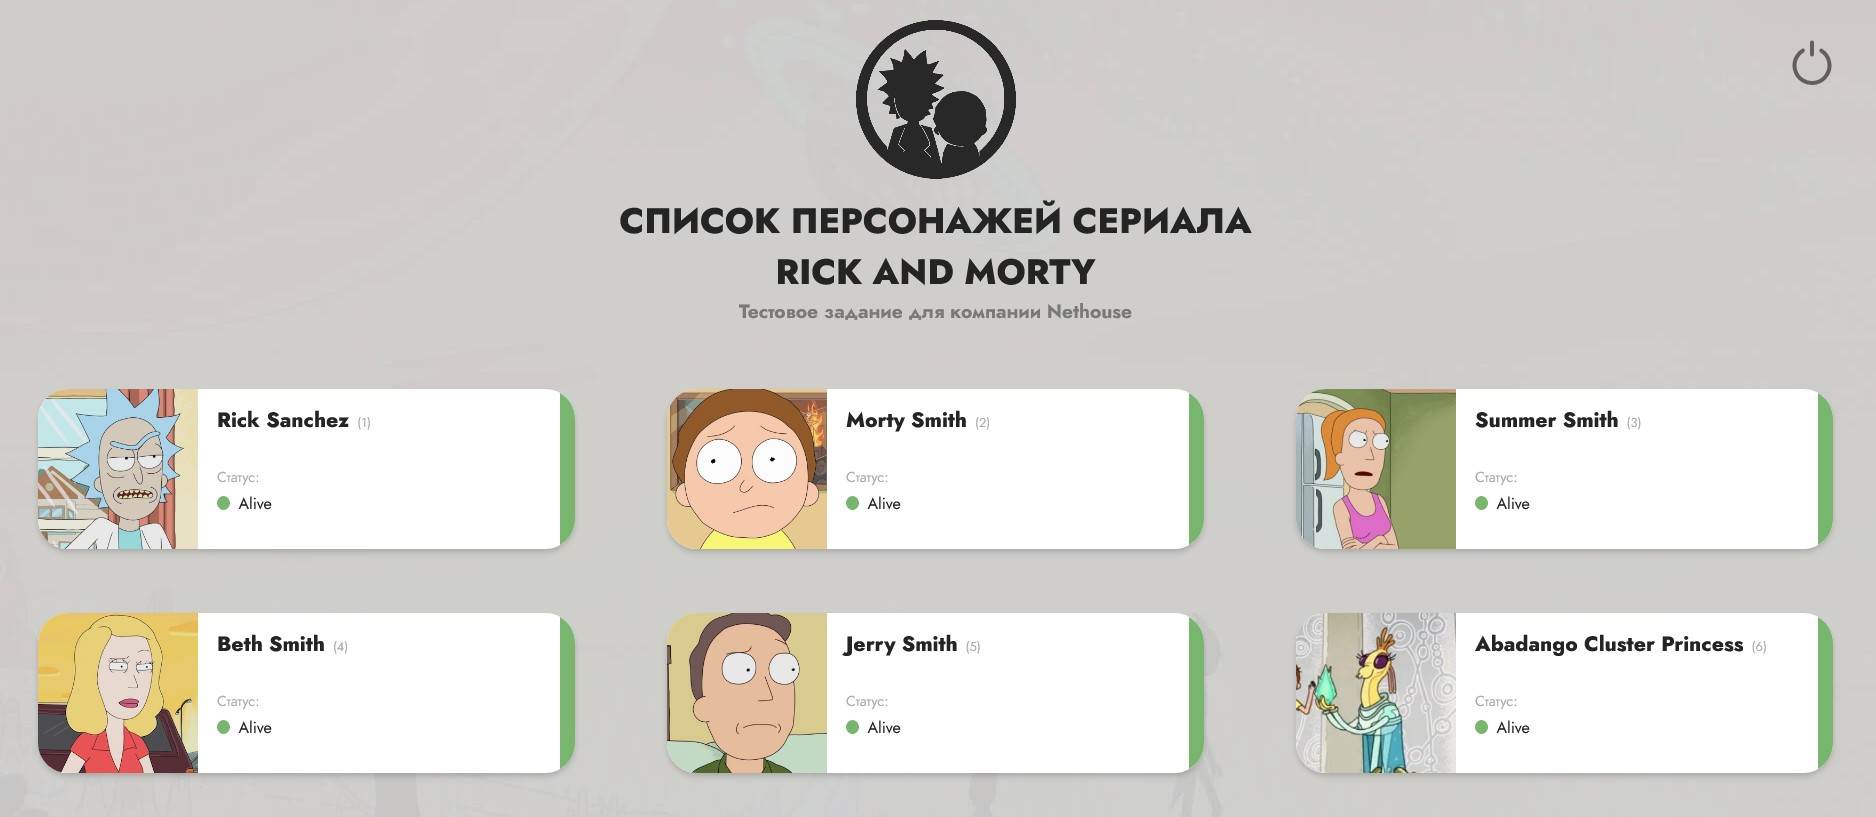
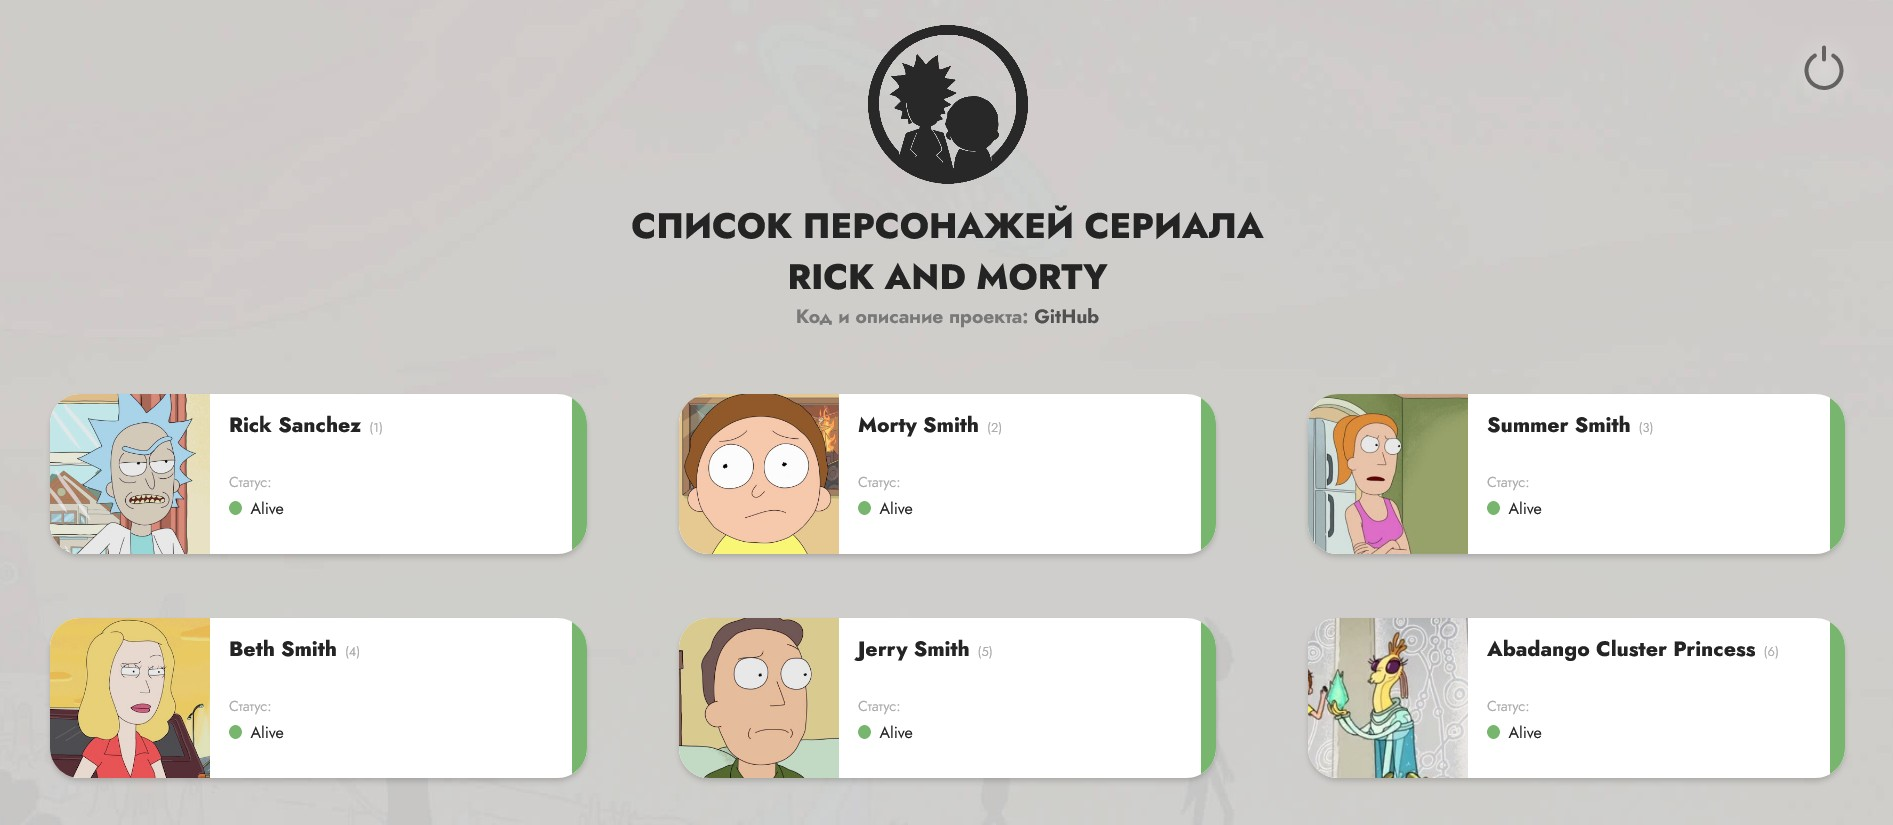
text and screenshot changes

diff --git a/src/components/CharacterList/List.js b/src/components/CharacterList/List.js
@@ -75,7 +75,9 @@ export default function CharacterList() {
 				<div className={'Nav'}>
 					<img className={'Logo'} alt='logo'/>
 					<h1>Список персонажей сериала <br/>Rick and Morty</h1>
-					<h2>Тестовое задание для компании Nethouse</h2>
+					<h2>Код и описание проекта:
+						<a href={'https://github.com/cat-in-a-box/rick-morty'} target={'_blank'}> GitHub</a>
+					</h2>
 				</div>
 				<div className={'CharacterListContainer'}>
 					{chars.map(char => {

diff --git a/src/App.scss b/src/App.scss
@@ -79,6 +79,9 @@ body {
         font-size: 1.2rem;
         margin-top: 0;
         text-align: center;
+        a {
+            color: #515151;
+        }
         @include for-mobile-devices {
             font-size: 1.1rem;
             max-width: 65%;
